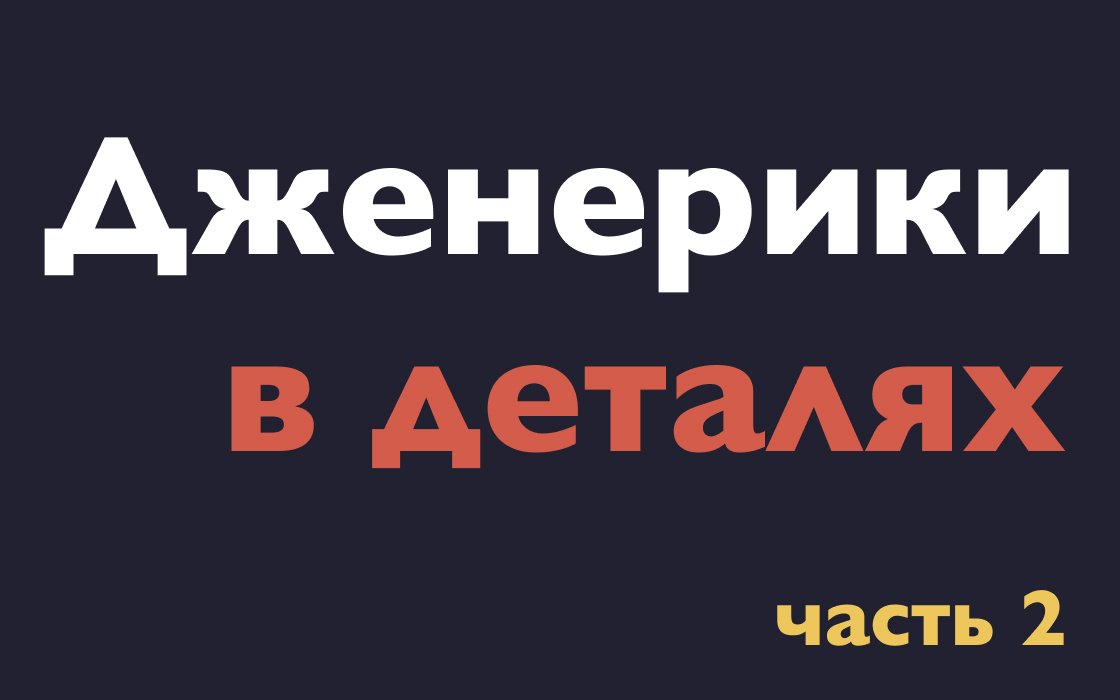
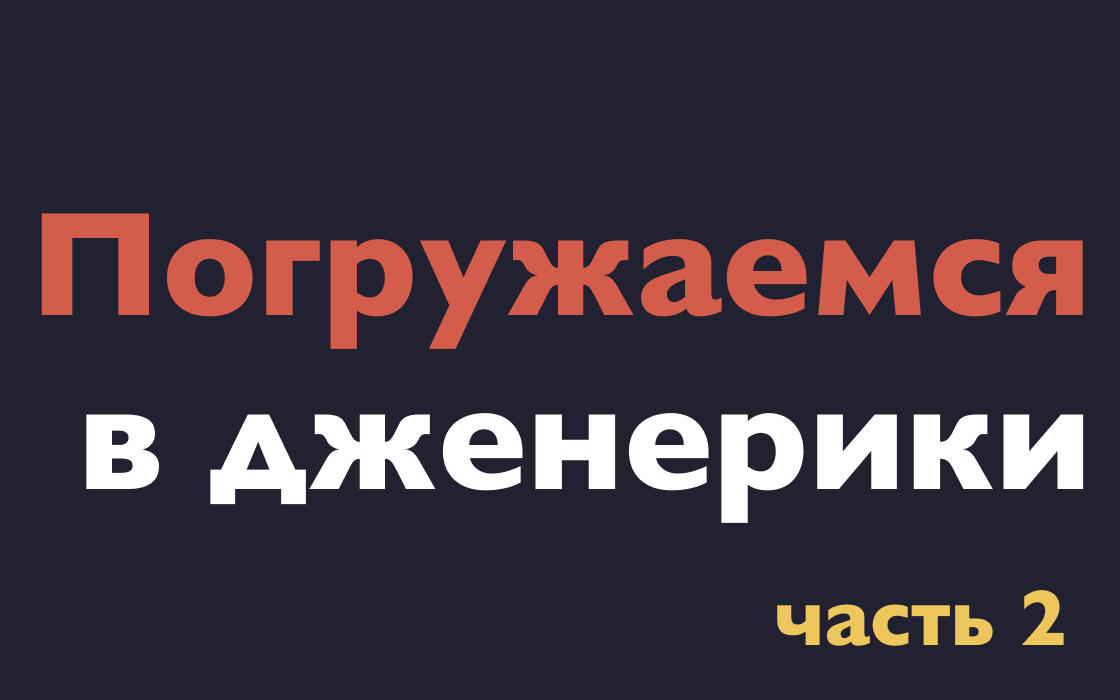
Переименована статья про дженерики

Changed region(s): [[0.0312, 0.18, 0.9688, 0.75], [0.0625, 0.57, 0.1562, 0.72]]

diff --git a/source/_posts/generics-in-depth.md b/source/_posts/generics-in-depth.md
@@ -1,7 +1,7 @@
 ---
 extends: _layouts.post
 section: content
-title: Дженерики в деталях
+title: Погружаемся в дженерики
 date: 2022-04-01
 description: Перевод серии статей о дженериках в PHP. Часть 2.
 tags: [php, generics]
@@ -10,7 +10,7 @@ original:
   title: "Generics in depth"
 ---
 
-# Дженерики в деталях
+# Погружаемся в дженерики
 
 В [предыдущей статье](/post/generics-in-php/) я показал очень скучный пример дженериков, в этой статье мы рассмотрим примеры получше.
 
